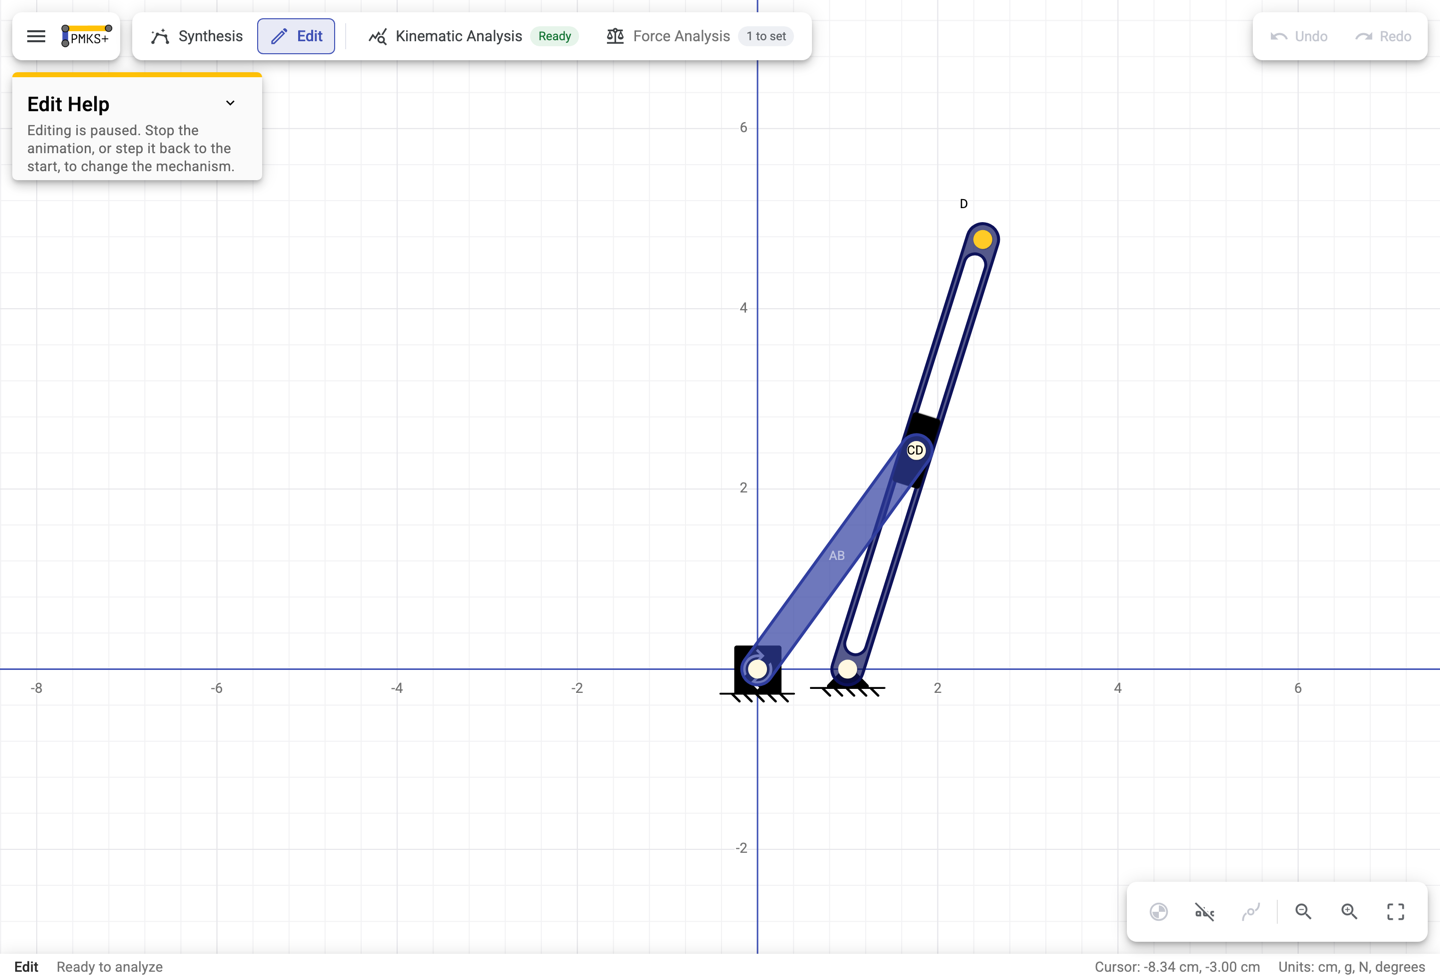
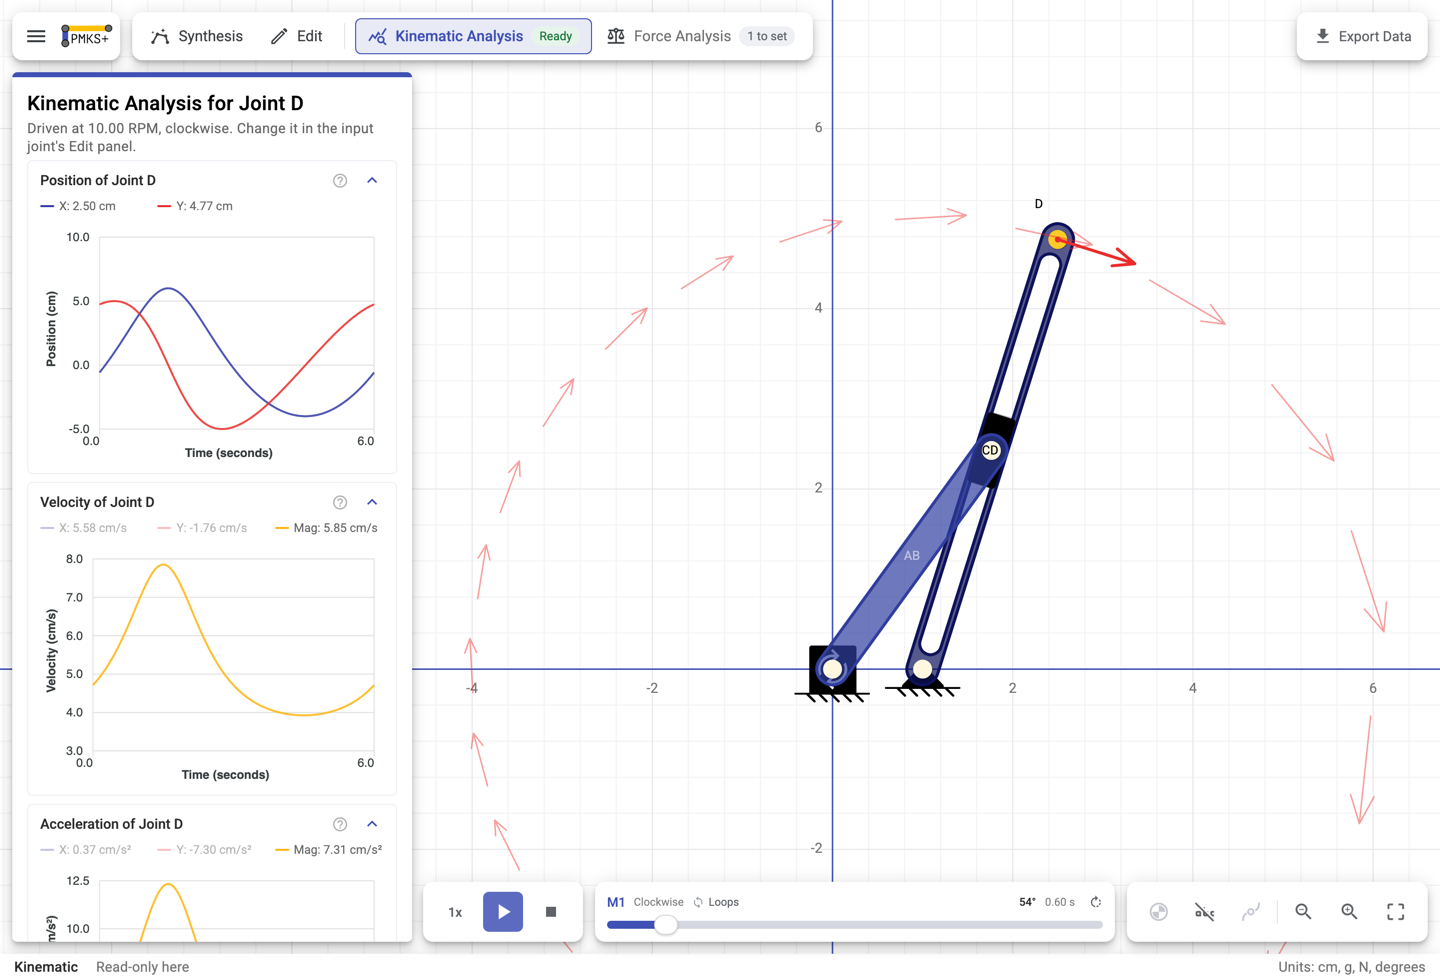
Take the app screenshots in the mode they are supposed to be showing
The Analyze section shipped a picture of the Edit panel refusing to edit —
"Editing is paused. Stop the animation, or step it back to the start" — and the
phone shot was in Edit mode too. The mode press at the top of each script had
silently not landed, and every step after it worked on the wrong panel while the
shot still got written looking almost right. I checked the file sizes after that
run and not the pictures.

So the script now checks its own work. Each shot declares which mode it is a
picture of; the mode press is repeated until the app agrees it has taken; and
before the shutter the page is asked what mode it is in and whether the Edit
panel has replaced itself with its paused warning. Anything wrong is named and
the run exits non-zero.

The Build shot also steps the mechanism back to the start before opening Edit.
Away from sample zero that panel is the warning, correctly — which is a fine
thing for the app to say and a useless thing for a section called Build to be a
picture of.

All four retaken, and looked at this time.

Also, from the meta-tag inspector: og:description was 139 characters against a
~125 budget, so the card gets its own shorter wording rather than the search
description cut off mid-word. And metadataBase reads NEXT_PUBLIC_SITE_URL, so a
deploy preview can point its og:image at itself instead of at a domain this page
is not live on yet.

diff --git a/app/layout.tsx b/app/layout.tsx
@@ -18,12 +18,33 @@ const robotoMono = Roboto_Mono({
 })
 
 const TITLE = 'PMKS+ | Web-based Linkage Analysis Tool'
+
+/** For a search result, which shows about 155 characters. */
 const DESCRIPTION =
   'Build and simulate planar mechanisms in your browser. Position, velocity, ' +
   'acceleration and forces, with no installation, account or upload.'
 
+/**
+ * For a link preview, which shows about 125 and truncates the rest on a phone.
+ * The same claim, said shorter, rather than the long one cut off mid-word.
+ */
+const CARD_DESCRIPTION =
+  'Build and simulate planar mechanisms in your browser \u2014 position, velocity, ' +
+  'acceleration and forces. No install, no account.'
+
+/**
+ * Where this page is being served from, which is what an `og:image` has to be
+ * absolute against.
+ *
+ * A deploy preview is not pmksplus.com, and a card pointing at pmksplus.com
+ * from a preview fetches whatever is live there instead — or, before this page
+ * ships, nothing at all. Set NEXT_PUBLIC_SITE_URL in the preview's environment
+ * to have it describe itself.
+ */
+const SITE = process.env.NEXT_PUBLIC_SITE_URL ?? 'https://pmksplus.com'
+
 export const metadata: Metadata = {
-  metadataBase: new URL('https://pmksplus.com'),
+  metadataBase: new URL(SITE),
   title: TITLE,
   description: DESCRIPTION,
   alternates: { canonical: '/' },
@@ -32,7 +53,7 @@ export const metadata: Metadata = {
     url: '/',
     siteName: 'PMKS+',
     title: TITLE,
-    description: DESCRIPTION,
+    description: CARD_DESCRIPTION,
     images: [
       {
         // The page's own first screen, retaken by `npm run shots` — headline
@@ -47,7 +68,7 @@ export const metadata: Metadata = {
   twitter: {
     card: 'summary_large_image',
     title: TITLE,
-    description: DESCRIPTION,
+    description: CARD_DESCRIPTION,
     images: ['/images/social-card.png'],
   },
 }

diff --git a/README.md b/README.md
@@ -55,6 +55,21 @@ beside this repo; `npm run shots` also wants that app's dev server up on port
 screen — this page running too. See [`engine/README.md`](engine/README.md) for
 what is vendored, how to re-sync it, and what the canvas does and does not draw.
 
+`npm run shots` checks what it took: every picture says which mode of the app it
+is supposed to be showing, the script asks the page before the shutter, and it
+exits non-zero if the answer is wrong. A mode press that quietly did not land is
+how a picture of the Analyze mode once shipped showing the Edit one.
+
+## The social card
+
+`public/images/social-card.png` is a photograph of this page's own first screen,
+so a link preview cannot drift from the page it previews.
+
+`og:image` has to be an absolute URL, and a deploy preview is not pmksplus.com —
+a card pointing at pmksplus.com from a preview fetches whatever is live there
+instead. Set `NEXT_PUBLIC_SITE_URL` in the preview's environment to have it
+describe itself.
+
 ## Images
 
 `next/image` is set to `unoptimized`, so the five pictures on the page are
